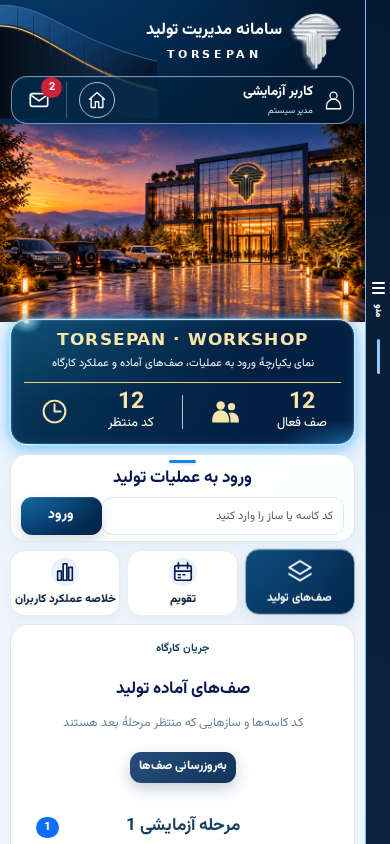
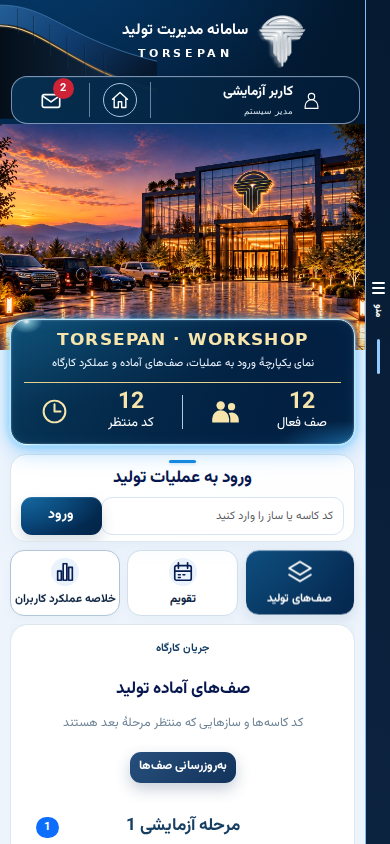
Match reference header placement and overlap summary card on workshop photograph

diff --git a/TORSEPAN.Panel/wwwroot/theme.css b/TORSEPAN.Panel/wwwroot/theme.css
@@ -313,3 +313,37 @@ body .theme-shell .theme-hero { box-shadow: 0 0 2px #efffff, 0 0 9px #29b8ff99, 
 }
 body .theme-shell .theme-hero::after { background: radial-gradient(ellipse 19px 14px at 4.5% 1.2%, #ffffffed, #b9f3ff88 22%, transparent 85%), radial-gradient(ellipse 85px 26px at 100% 100%, #299dff66, transparent 90%); }
 @media(max-width:768px) { body .theme-shell .dashboard-hero h1 { font-size: 16.7px; letter-spacing: 1.15px; } }
+/* Match the reference header alignment and preserve real photograph/card overlap. */
+@media(max-width:768px) {
+    body .layout.theme-shell > .main > .topbar { padding-inline: 5px 11px; }
+    body .theme-shell .topbar .topbar-left { padding-inline-start: 53px; }
+    body .theme-shell .topbar .page-title-main { font-size: 15.3px; }
+    body .theme-shell .topbar .topbar-workshop-mark { transform: scale(1.3); }
+    body .theme-shell .topbar .topbar-right {
+        display: grid; grid-template-columns: minmax(0,1fr) 60px 78px;
+        min-height: 48px; padding: 5px 0; gap: 0;
+        background: linear-gradient(105deg, #063052f2, #021a35f5);
+    }
+    body .theme-shell .topbar .user-box-clean {
+        align-self: stretch; height: 100%; min-width: 0; padding-inline: 38px 9px; gap: 9px;
+        border-inline-end: 1px solid #a9c0e199;
+    }
+    body .theme-shell .topbar .profile-icon { width: 19px; height: 23px; }
+    body .theme-shell .topbar .user-role { font-family: Arial, Tahoma, sans-serif; font-size: 9px; text-align: right; }
+    body .theme-shell .topbar .dashboard-button {
+        place-self: center; margin: 0; width: 34px !important; height: 34px !important;
+        min-width: 34px; min-height: 34px; padding: 6px;
+    }
+    body .theme-shell .topbar .header-notification {
+        width: 100%; height: 34px; padding: 0; border-inline-start: 1px solid #a9c0e199;
+    }
+    body .theme-shell .workshop-panorama {
+        aspect-ratio: auto; height: calc((100vw - var(--tp-rail)) / 1.85 + 28px);
+    }
+    body .theme-shell .dashboard-hero { position: relative; z-index: 2; margin-top: -31px; }
+}
+@media(max-width:370px) {
+    body .theme-shell .topbar .topbar-right { grid-template-columns: minmax(0,1fr) 55px 72px; }
+    body .theme-shell .topbar .user-box-clean { padding-inline-start: 28px; gap: 8px; }
+    body .theme-shell .topbar .page-title-main { font-size: 14.5px; }
+}

diff --git a/docs/navy-theme-preview.md b/docs/navy-theme-preview.md
@@ -59,3 +59,9 @@ A second review compares the approved 893px-wide application area with the actua
 `tests/theme-reference-capture.cjs` captures the actual interactive app at 390×670 CSS pixels with a 3× device scale (1170×2010 output). Run through `tests/theme-preview.sh` with `THEME_BROWSER_SCRIPT=tests/theme-reference-capture.cjs` and `THEME_REFERENCE_CONTENT=1`. That opt-in fixture copies the reference's display name, role label and 262/12 figures into synthetic local data; it does not authenticate a real user or read production data. Default regression fixtures retain their own test identity. Full-resolution screenshots are delivered separately; the checked-in preview remains a current normal-resolution app capture.
 
 The screenshot comparison still shows differences in the workshop photograph and the decorative architectural artwork. Functional checks and this review do not assert pixel-identical reproduction or authorize production publication.
+
+## Header placement and actual photo overlap correction
+
+The brand group is aligned to the reference rather than the right edge of the available header. At a 390px viewport, the title starts at x=122 CSS px and the profile icon at x=302 CSS px. The toolbar now has explicit profile/home/message columns and both vertical dividers. The user region is inset to reproduce the reference composition without changing account data or routes.
+
+The workshop photograph is extended 28px behind the summary card, and the card overlaps it by 31px. The card's overall vertical position is retained; the visible strips of photograph beside its upper corners establish genuine layering instead of placing the card after the image. Browser checks assert a 28–34px intersection and both toolbar divider/grid behavior at mobile widths, in addition to existing functional checks. Actual tested widths: 360, 390, 768 and 1280px. Panel Release build and the browser suite passed.
